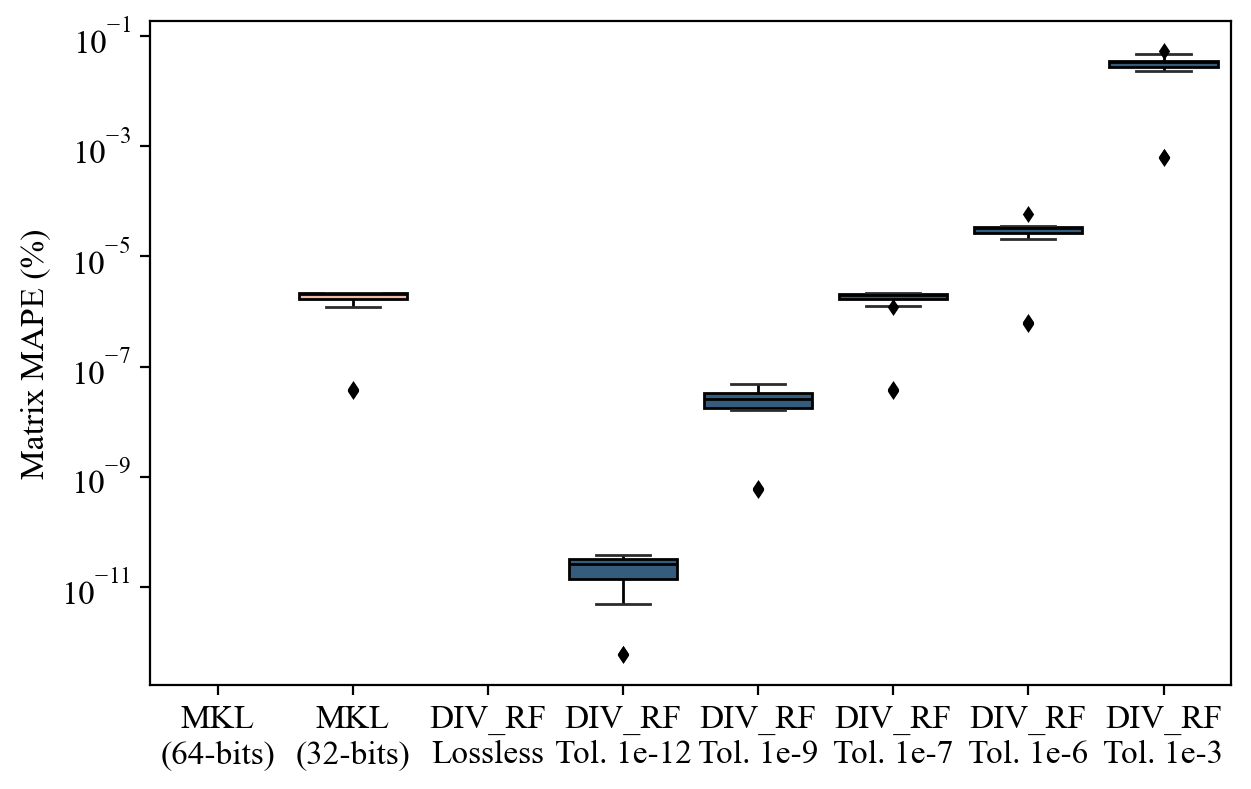
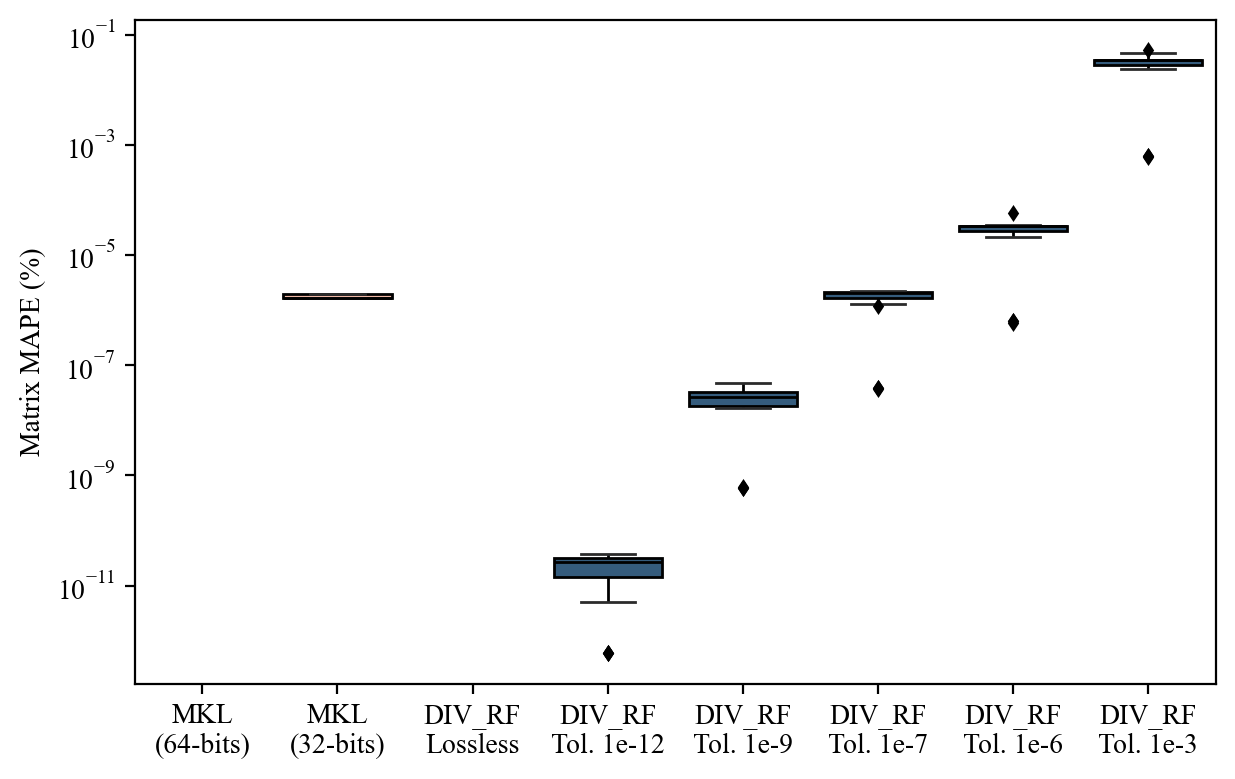
errors combine files

diff --git a/plot_scripts/6_lossy.py b/plot_scripts/6_lossy.py
@@ -23,7 +23,13 @@ dfs = []
 
 dfs.append(read_bench_file(G.bench_path + '/lumi/mkl_ie_d.csv', None, 'MKL\n(64-bits)', 'AMD-EPYC-64'))
 G.palette_format_dict['MKL\n(64-bits)'] = G.palette_format_dict['MKL(64-bits)']
-dfs.append(read_bench_file(G.bench_path + '/lumi/mkl_ie_f.csv', None, 'MKL\n(32-bits)', 'AMD-EPYC-64'))
+
+# Use CVB_d2f for the matrix errors of MKL 32-bits.
+df_mkl32 = read_bench_file(G.bench_path + '/lumi/mkl_ie_f.csv', None, 'MKL\n(32-bits)', 'AMD-EPYC-64')
+df_cvb_d2f = read_bench_file(G.bench_path + '/lumi/csr_cv_block_d2f_d.csv', None, 'CVB_d2f', 'AMD-EPYC-64')
+df_mkl32['matrix_mape'] = df_cvb_d2f['matrix_mape']
+df_mkl32['matrix_smape'] = df_cvb_d2f['matrix_smape']
+dfs.append(df_mkl32)
 G.palette_format_dict['MKL\n(32-bits)'] = G.palette_format_dict['MKL(32-bits)']
 
 dfs.append(read_bench_file(G.bench_path + '/lumi/sort_diff_rf/csr_cv_stream_rf.csv', None, 'DIV_RF\nLossless', 'AMD-EPYC-64'))
@@ -51,7 +57,7 @@ df['matrix_mse'] = df['matrix_mse'].fillna(0)
 df['matrix_mape'] = df['matrix_mape'].fillna(0)
 df['matrix_smape'] = df['matrix_smape'].fillna(0)
 df['matrix_lnQ_error'] = df['matrix_lnQ_error'].fillna(0)
-# df['matrix_mlare'] = df['matrix_mlare'].fillna(0)
+df['matrix_mlare'] = df['matrix_mlare'].fillna(-np.inf)
 df['matrix_gmare'] = df['matrix_gmare'].fillna(0)
 
 
@@ -60,9 +66,21 @@ formats = df['format_name'].unique()
 print(formats)
 
 
-file_out = 'figures/lossy_errors_spmv.png'
 set_fig_size_scale(2, 2)
-plt.rcParams['font.size'] = 12
+plt.rcParams['font.size'] = 10
+
+
+file_out = 'figures/lossy_perf.png'
+p = Boxplot(data=df, x='format_name', y='gflops', hue='format_name', palette=G.palette_format_dict)
+p.set_labels('', 'Performance (GFLOPs)')
+p.plot(file_out)
+
+file_out = 'figures/lossy_errors_matrix.png'
+p = Boxplot(data=df, x='format_name', y='matrix_mape', hue='format_name', palette=G.palette_format_dict, log_scale=True)
+p.set_labels('', 'Matrix MAPE (%)')
+p.plot(file_out)
+
+file_out = 'figures/lossy_errors_spmv.png'
 p = Boxplot(data=df, x='format_name', y='spmv_mape', hue='format_name', palette=G.palette_format_dict, log_scale=True)
 p.set_labels('', 'SpMV MAPE (%)')
 p.plot(file_out)
